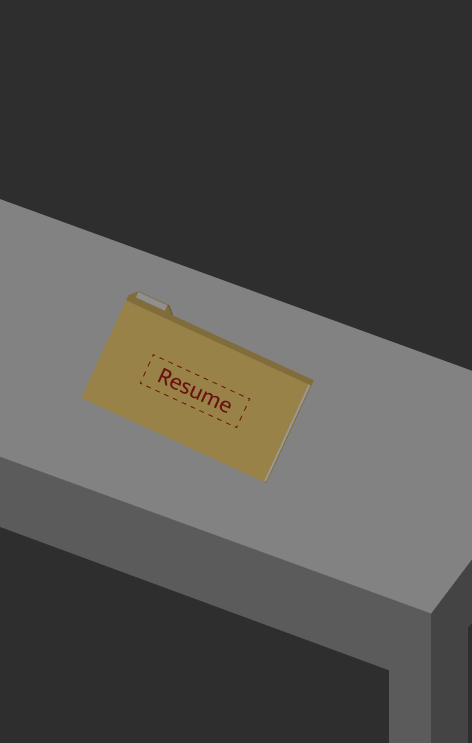
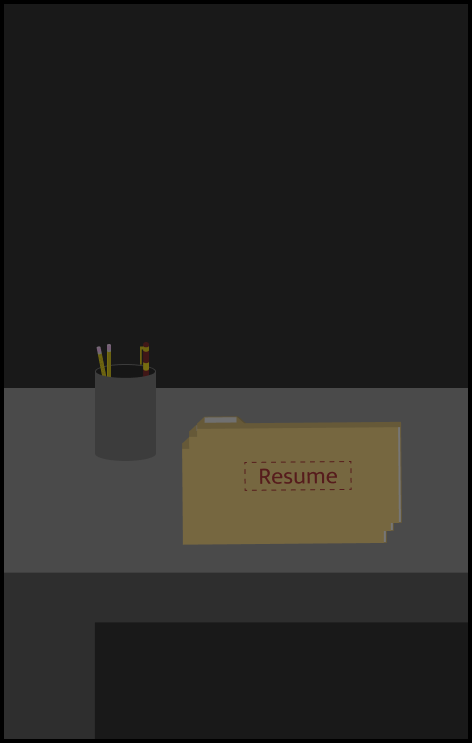
Added Resume-alink image

diff --git a/css/style.css b/css/style.css
@@ -33,6 +33,13 @@ html {
     width: 100%;
 }
 
+section{
+    display: flex;
+    flex-direction: column;
+    justify-content: center;
+}
+
+
 #logo-container{
     padding: 3rem 1rem;
 
@@ -49,7 +56,33 @@ html {
 }
 
 
+/* #resume-bio-container{
+    display: flex;
+    flex-direction: column;
+} */
+.hero-page-alinks{
+    max-width: 100%;
+    width: 100%;
 
+    display: flex;
+    flex-direction: column;
+    justify-content: center;
+
+    text-align: center;
+    height: 5rem;
+}
+
+#resume-alink{
+    background-image: url(../img/alink-images/resume-alink.png);
+    background-size: cover;
+    background-position: center;
+}
+#bio-alink{
+    background-image: url(../img/alink-images/resume-alink.png);
+}
+#blog-alink{
+    background-image: url(../img/alink-images/resume-alink.png);
+}
 
 
 /* Class for making YouTube/Vimeo videos responsive */
